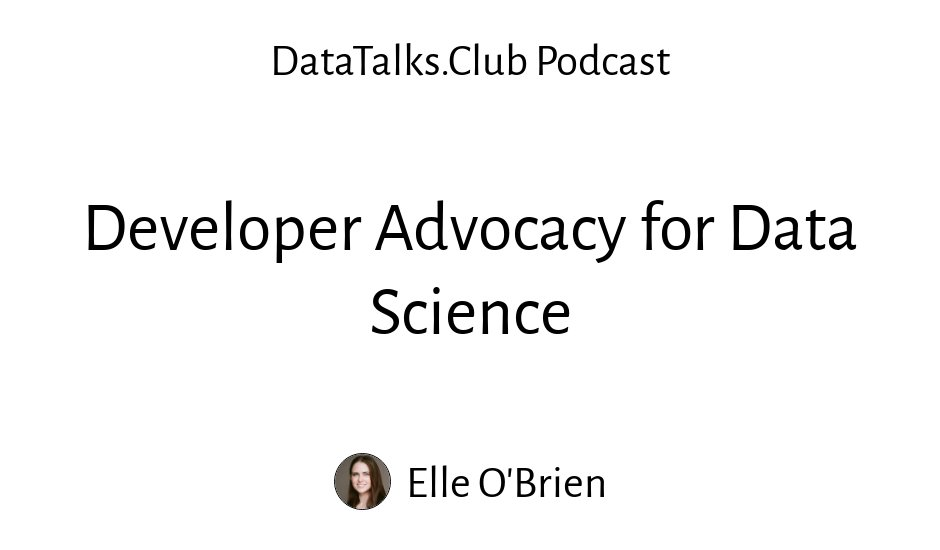
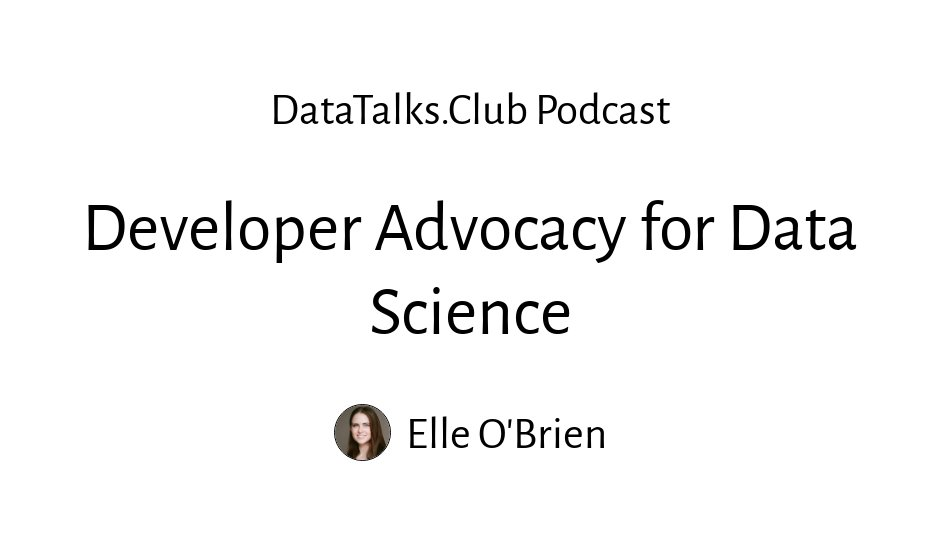
podcast images

Changed region(s): [[0.2777, 0.0618, 0.7096, 0.2473], [0.3394, 0.7109, 0.6479, 0.9273]]

diff --git a/previews/styles.css b/previews/styles.css
@@ -48,6 +48,17 @@ h4 {
   height: 480px; /* 550 - 35*2*/
 }
 
+
+#inner-podcast {
+  padding: 35px;
+  display: flex;
+  flex-direction: column;
+  justify-content: space-evenly;
+  height: 480px; /* 550 - 35*2*/
+}
+
+
+
 .author-block {
   display: flex;
   justify-content: center;

diff --git a/previews/template_podcast.html b/previews/template_podcast.html
@@ -16,7 +16,7 @@
 
 <body>
   <div id="main">
-    <div id="inner">
+    <div id="inner-podcast">
       <div class="head-block">
         <h3 id="site">DataTalks.Club Podcast</h3>
       </div>
